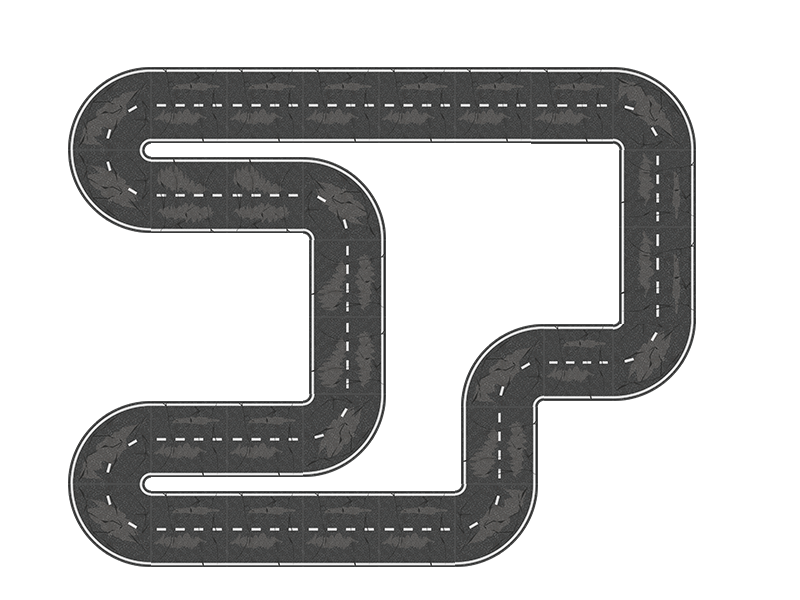
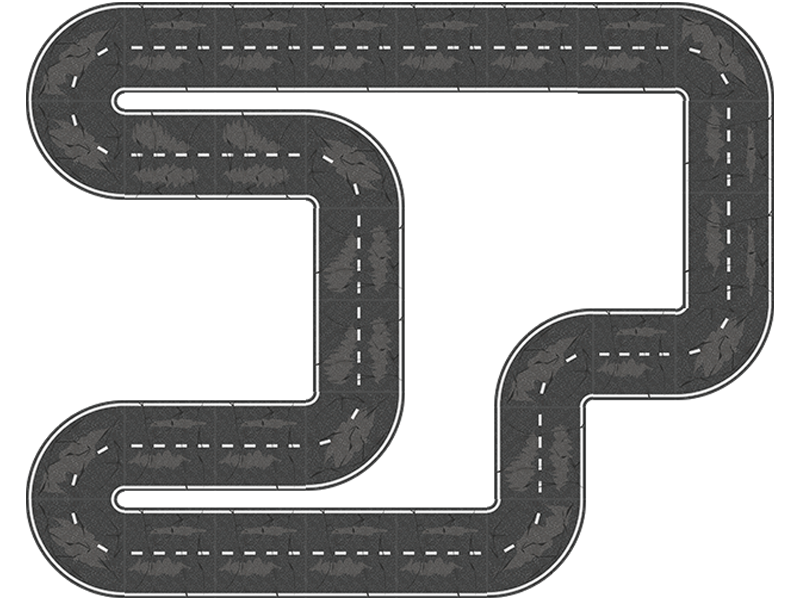
Ny fysik för bilen samt lite uppdaterad textur

diff --git a/game.js b/game.js
@@ -10,20 +10,35 @@ var config = {
         update: update
     },
     physics:{
-        default: "matter",
-        matter: {
+        default: "arcade",
+        /*matter: {
             gravity: {
                 y: 0
             }
             //debug: true
-        }
+        }*/
     }
 }
 
 var game = new Phaser.Game(config);
 let rotate = 0;
+
+let nCar ={
+    x:500,
+    y:700,
+    velocityX:0,
+    velocityY:0,
+    drag:.1,
+    angularVelocity:0.00005,
+    angularDrag: 0.9,
+    power:1.5,
+    turnspeed:.005,
+
+}
 function preload ()
 {
+
+    //Load graphics
     this.load.image("car", "./Graphics/car.png");
     this.load.image("road", "./Graphics/road.png");
 
@@ -31,35 +46,46 @@ function preload ()
 
 function create ()
 {
-    road = this.matter.add.image(500, 150, 'road');
-    car = this.matter.add.image(500, 350, 'car');
+    road = this.physics.add.sprite(600, 400, 'road');
+    //car = this.matter.add.image(nCar.x, nCar.y, 'car');
+    car = this.physics.add.sprite(nCar.x, nCar.y, 'car');
+
     cursors = this.input.keyboard.createCursorKeys();
+
     xText = this.add.text(16, 16, 'X: 0', { fontSize: '32px', fill: '#fff' });
     yText = this.add.text(16, 52, 'Y: 0', { fontSize: '32px', fill: '#fff' });
-    car.setFriction(0.8);
-    car.setFriction(0.8);
     
 }
 
 function update ()
 {
-    
     xText.setText("X: "+ Math.round(car.x));
     yText.setText("Y: "+ Math.round(car.y));
 
-    
+    carUpdate();
     if(cursors.down.isDown){
-        car.thrustBack(0.0001);
+        nCar.velocityX -= Math.cos(car.rotation) * nCar.power;
+        nCar.velocityY -= Math.sin(car.rotation) * nCar.power;
     }
     if(cursors.up.isDown){
-        car.thrust(0.0001);
+        nCar.velocityX += Math.cos(car.rotation) * nCar.power;
+        nCar.velocityY += Math.sin(car.rotation) * nCar.power;
     }
     if(cursors.left.isDown){
-        rotate-=.02;
+        nCar.angularVelocity -= nCar.turnspeed;
     }
     if(cursors.right.isDown){
-        rotate+=.02;
+        nCar.angularVelocity += nCar.turnspeed;
     }
+    
+}
 
-    car.rotation = rotate;
+
+function carUpdate(){
+    car.x += nCar.velocityX;
+    car.y += nCar.velocityY;
+    nCar.velocityX *= nCar.drag;
+    nCar.velocityY *= nCar.drag;
+    car.rotation += nCar.angularVelocity;
+    nCar.angularVelocity *= nCar.angularDrag;
 }
